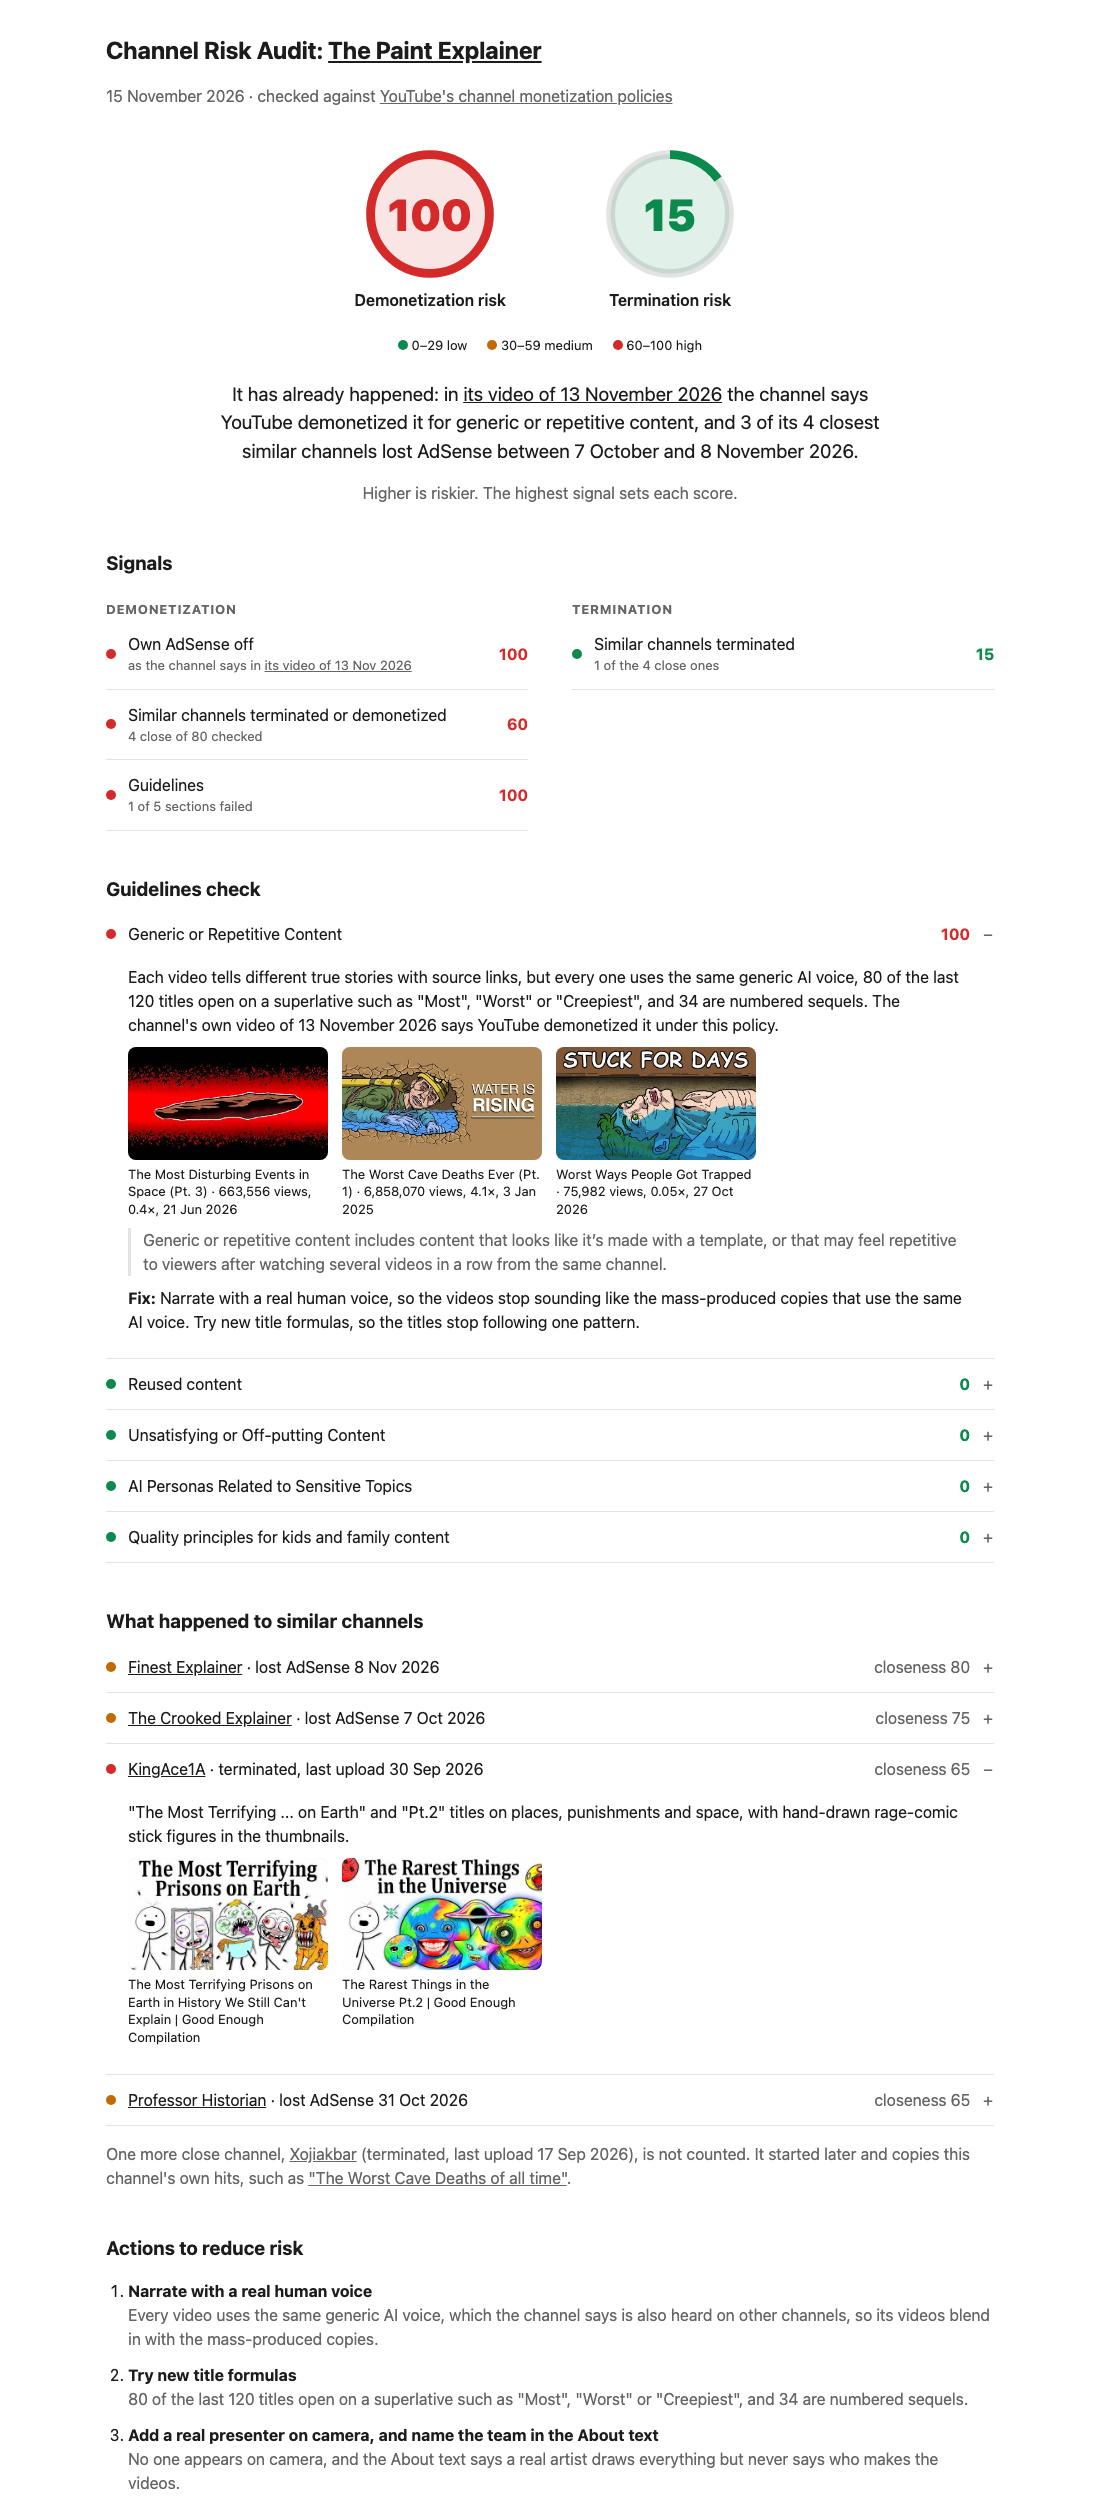
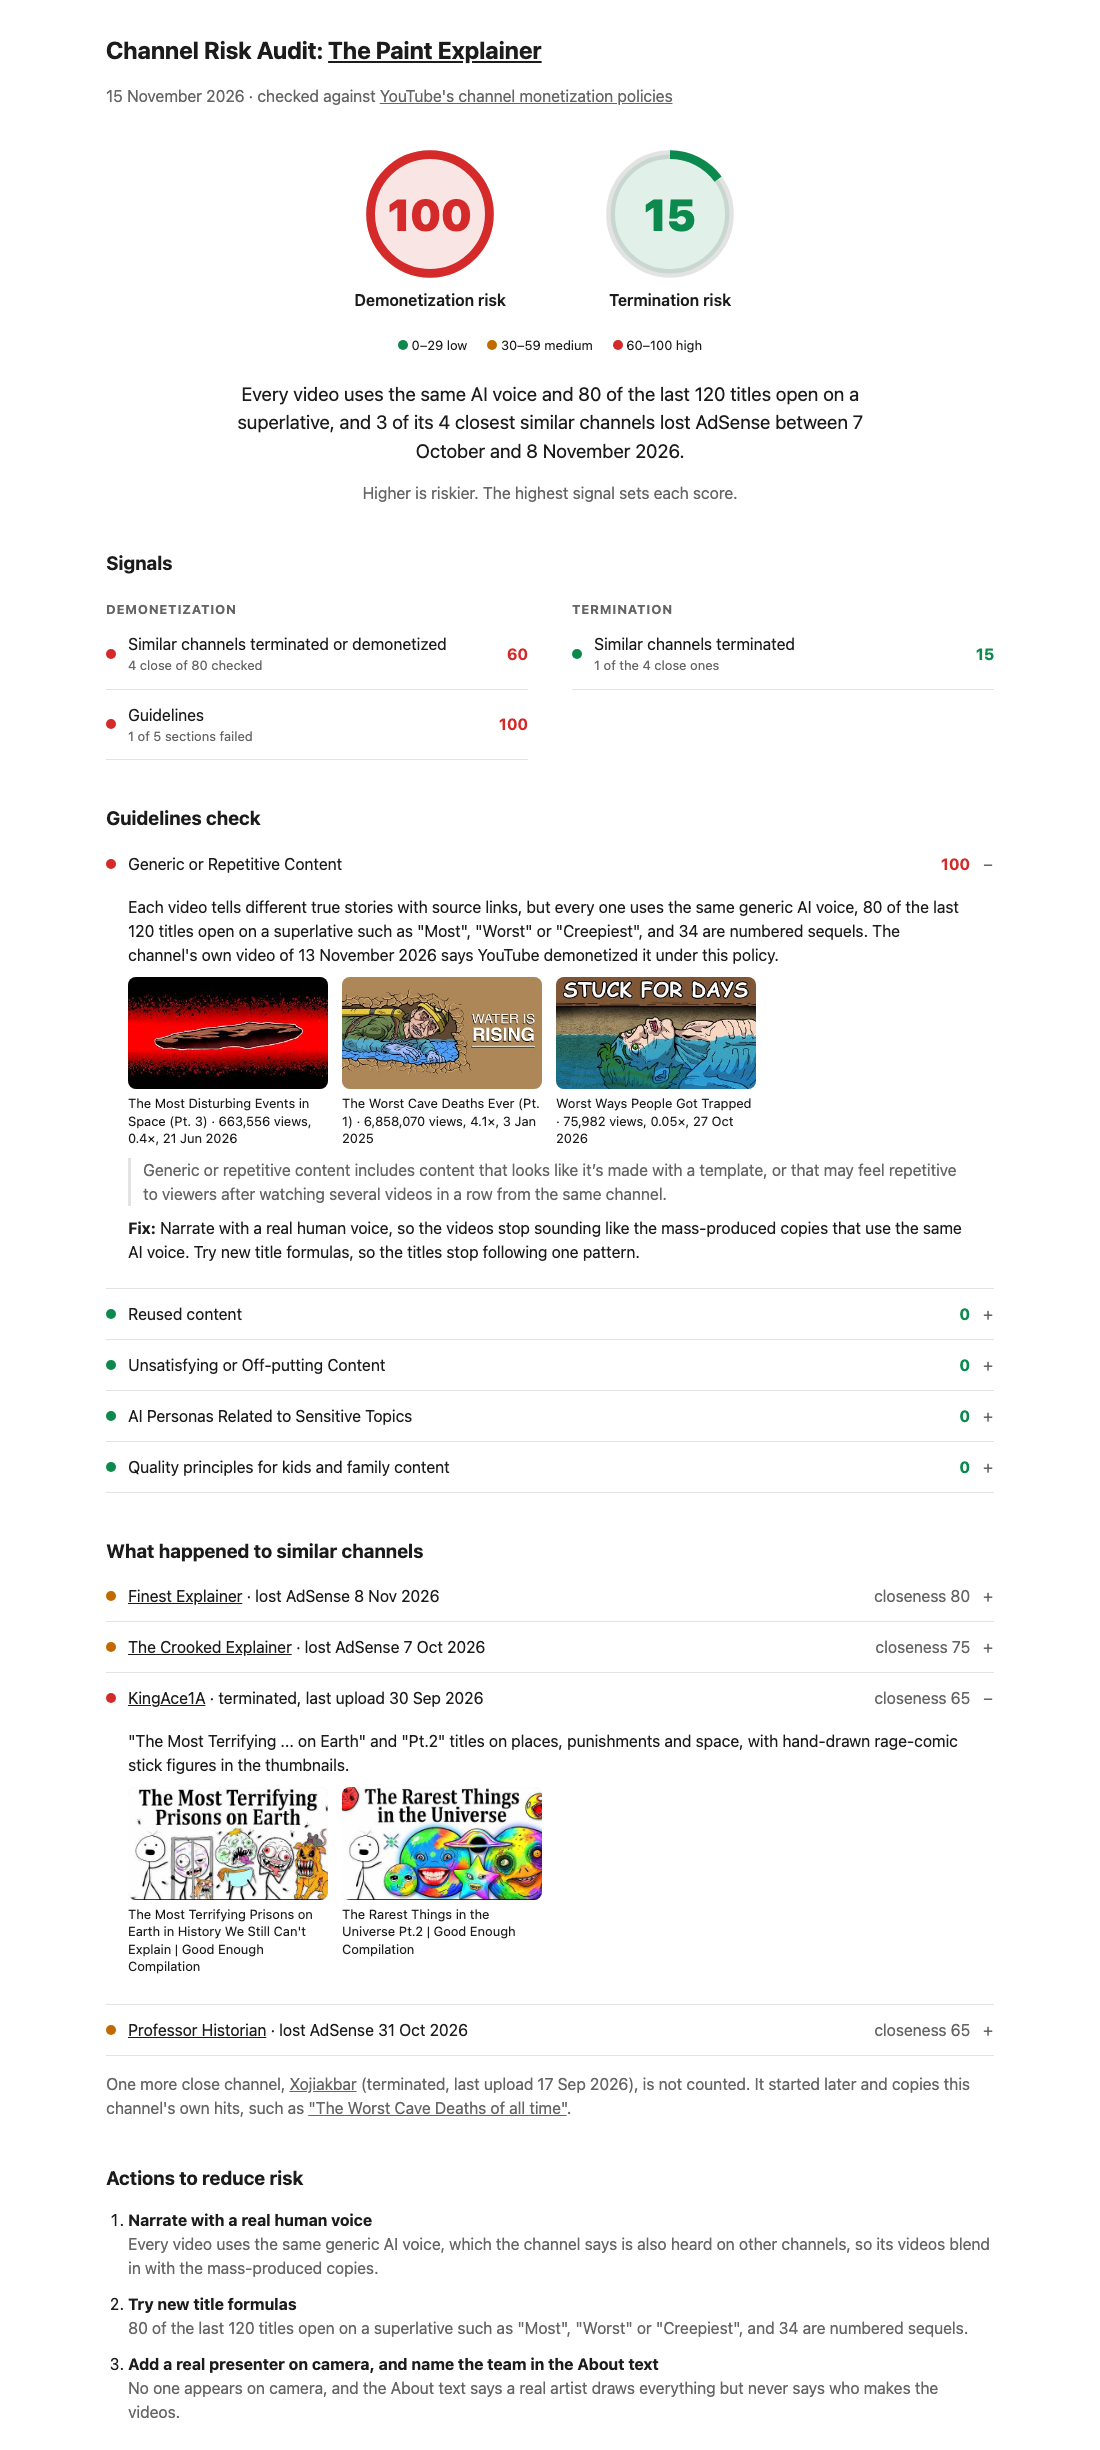
fix(audit-channel-risk): do not score the channel's own AdSense status (#16)
AdSense being off can mean the channel was never monetized, so it is no longer a demonetization signal. The scores come from the similar channels and the guidelines check only.

diff --git a/examples/audit-channel-risk/2026-11-thepaintexplainer.html b/examples/audit-channel-risk/2026-11-thepaintexplainer.html
@@ -59,14 +59,13 @@ td,th{text-align:left;padding:10px 12px 10px 0;border-bottom:1px solid var(--lin
   <div class="gauge low"><svg viewBox="0 0 120 120"><circle cx="60" cy="60" r="54"/><circle class="arc" cx="60" cy="60" r="54" pathLength="100" stroke-dasharray="15 100"/></svg><b>15</b>Termination risk</div>
 </div>
 <div class="legend"><span class="low"><i></i> 0–29 low</span><span class="med"><i></i> 30–59 medium</span><span class="high"><i></i> 60–100 high</span></div>
-<p class="big center">It has already happened: in <a href="https://www.youtube.com/watch?v=ZIl4S9piTEw">its video of 13 November 2026</a> the channel says YouTube demonetized it for generic or repetitive content, and 3 of its 4 closest similar channels lost AdSense between 7 October and 8 November 2026.</p>
+<p class="big center">Every video uses the same AI voice and 80 of the last 120 titles open on a superlative, and 3 of its 4 closest similar channels lost AdSense between 7 October and 8 November 2026.</p>
 <p class="mut center">Higher is riskier. The highest signal sets each score.</p>
 
 <h2>Signals</h2>
 <div class="cols">
   <div>
     <h3>Demonetization</h3>
-    <div class="row high"><i></i><span>Own AdSense off<small>as the channel says in <a href="https://www.youtube.com/watch?v=ZIl4S9piTEw">its video of 13 Nov 2026</a></small></span><b>100</b></div>
     <div class="row high"><i></i><span>Similar channels terminated or demonetized<small>4 close of 80 checked</small></span><b>60</b></div>
     <div class="row high"><i></i><span>Guidelines<small>1 of 5 sections failed</small></span><b>100</b></div>
   </div>

diff --git a/skills/audit-channel-risk/SKILL.md b/skills/audit-channel-risk/SKILL.md
@@ -21,14 +21,13 @@ YouTube's [channel monetization policies](https://support.google.com/youtube/ans
 3. Check the channel against each section, across titles, descriptions, thumbnails and three to five transcripts. View the thumbnails of the videos you cite.
 4. Note what already shows real people behind the channel: a real presenter on camera, and an About text naming who makes the videos.
 5. Run both searches below per channel, seeded with it, without the quality filter. Lost AdSense means `monetization.adsense` is false with a `monetizationChangedAt` date, whatever the AdSense detection says. False alone only means not monetized.
-6. If the channel is in its own lost-AdSense search, or says in a video that it was demonetized, lead with that and the date, score demonetization 100, and leave it off the list.
-7. Rate every other hit from 0 to 100: titles first, then thumbnails for title matches, then scripts if still unsure. A close one, 60 or more, shares the title formula and subject, and the thumbnail style. A terminated channel's thumbnails load from `https://cdn.tubelab.net/vi/<id>.jpeg`.
-8. Score two risks from 0 to 100, where higher is riskier. One strong signal is enough, so take the highest and never add them up. Under 30 is low 🟢, 30 to 59 is medium 🟡, and 60 or more is high 🔴.
+6. Rate every hit but the channel itself from 0 to 100: titles first, then thumbnails for title matches, then scripts if still unsure. A close one, 60 or more, shares the title formula and subject, and the thumbnail style. A terminated channel's thumbnails load from `https://cdn.tubelab.net/vi/<id>.jpeg`.
+7. Score two risks from 0 to 100, where higher is riskier. One strong signal is enough, so take the highest and never add them up. Under 30 is low 🟢, 30 to 59 is medium 🟡, and 60 or more is high 🔴.
    - Termination: 15 points per close similar channel terminated, up to 100.
    - Demonetization: the higher of two signals.
      - Similar channels: 15 points per close one terminated or demonetized, up to 100.
      - Guidelines: its worst section. A section scores 0 when at most two videos run into it, 60 when more do, and 100 when over half do.
-9. Compare several channels. One shared template is what spam systems look for.
+8. Compare several channels. One shared template is what spam systems look for.
 
 Terminated, then lost AdSense:
 
@@ -111,7 +110,6 @@ td,th{text-align:left;padding:10px 12px 10px 0;border-bottom:1px solid var(--lin
 <div class="cols">
   <div>
     <h3>Demonetization</h3>
-    <div class="row high"><i></i><span>Own AdSense off<small>{since {date} | as the channel says in its video of {date}, linked}</small></span><b>100</b></div> {only if step 6 applies}
     <div class="row {band}"><i></i><span>Similar channels terminated or demonetized<small>{n} close of {n} checked</small></span><b>{n}</b></div>
     <div class="row {band}"><i></i><span>Guidelines<small>{n} of {n} sections failed</small></span><b>{n}</b></div>
   </div>
@@ -173,5 +171,6 @@ td,th{text-align:left;padding:10px 12px 10px 0;border-bottom:1px solid var(--lin
 - Do not count a similar channel that gained AdSense, unless it is now terminated.
 - Do not count a later clone of the channel's own videos. Other channels in the same format count.
 - Do not flag AI use or upload pace alone.
+- Do not score the channel's own AdSense status. Off can mean it was never monetized.
 - A score is not a probability, and a low one is valid.
 - Never suggest hiding from detection. Every action changes the videos or shows who makes them.
